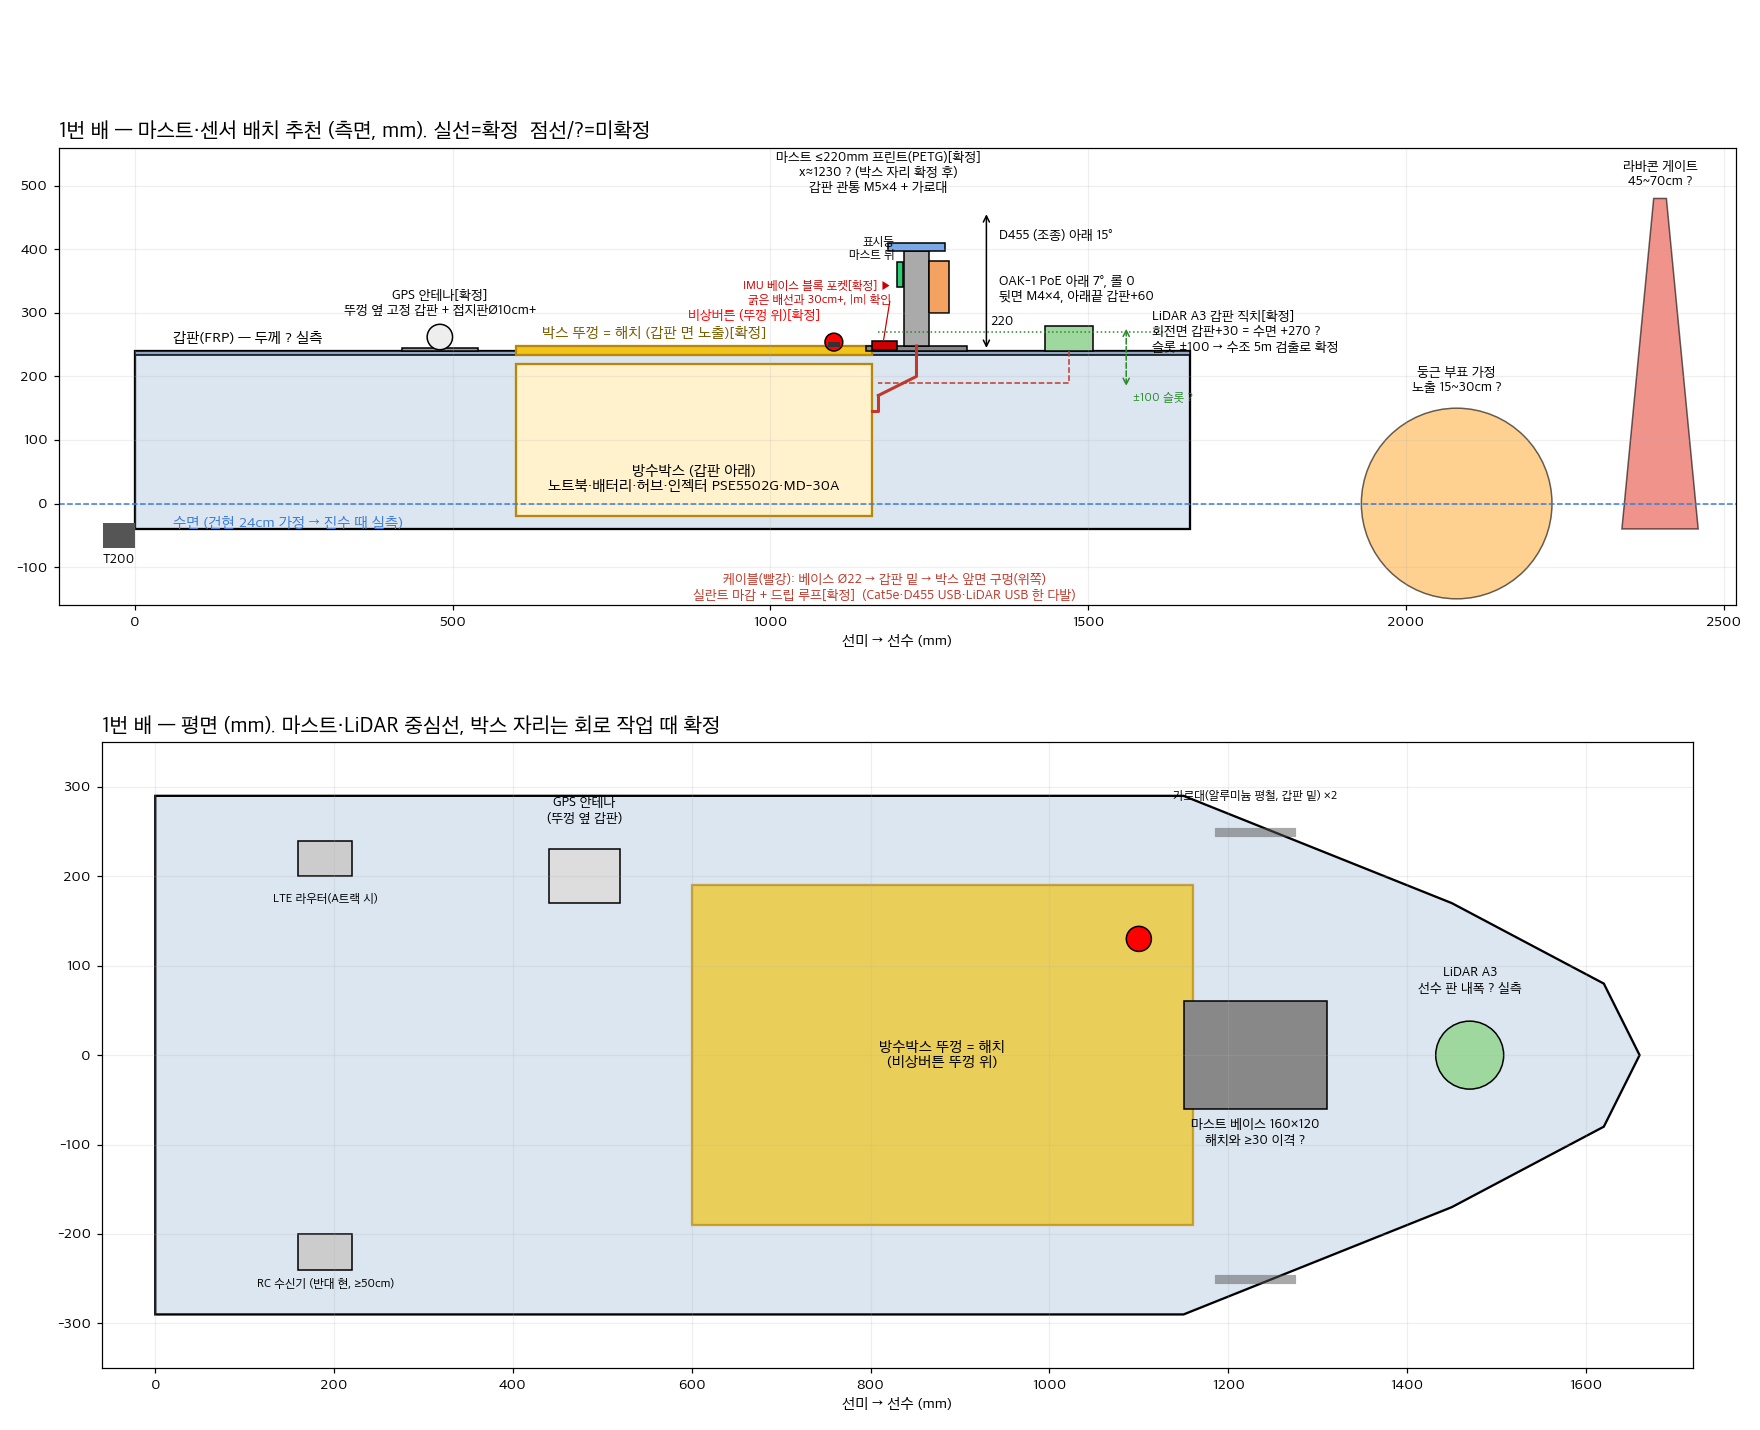
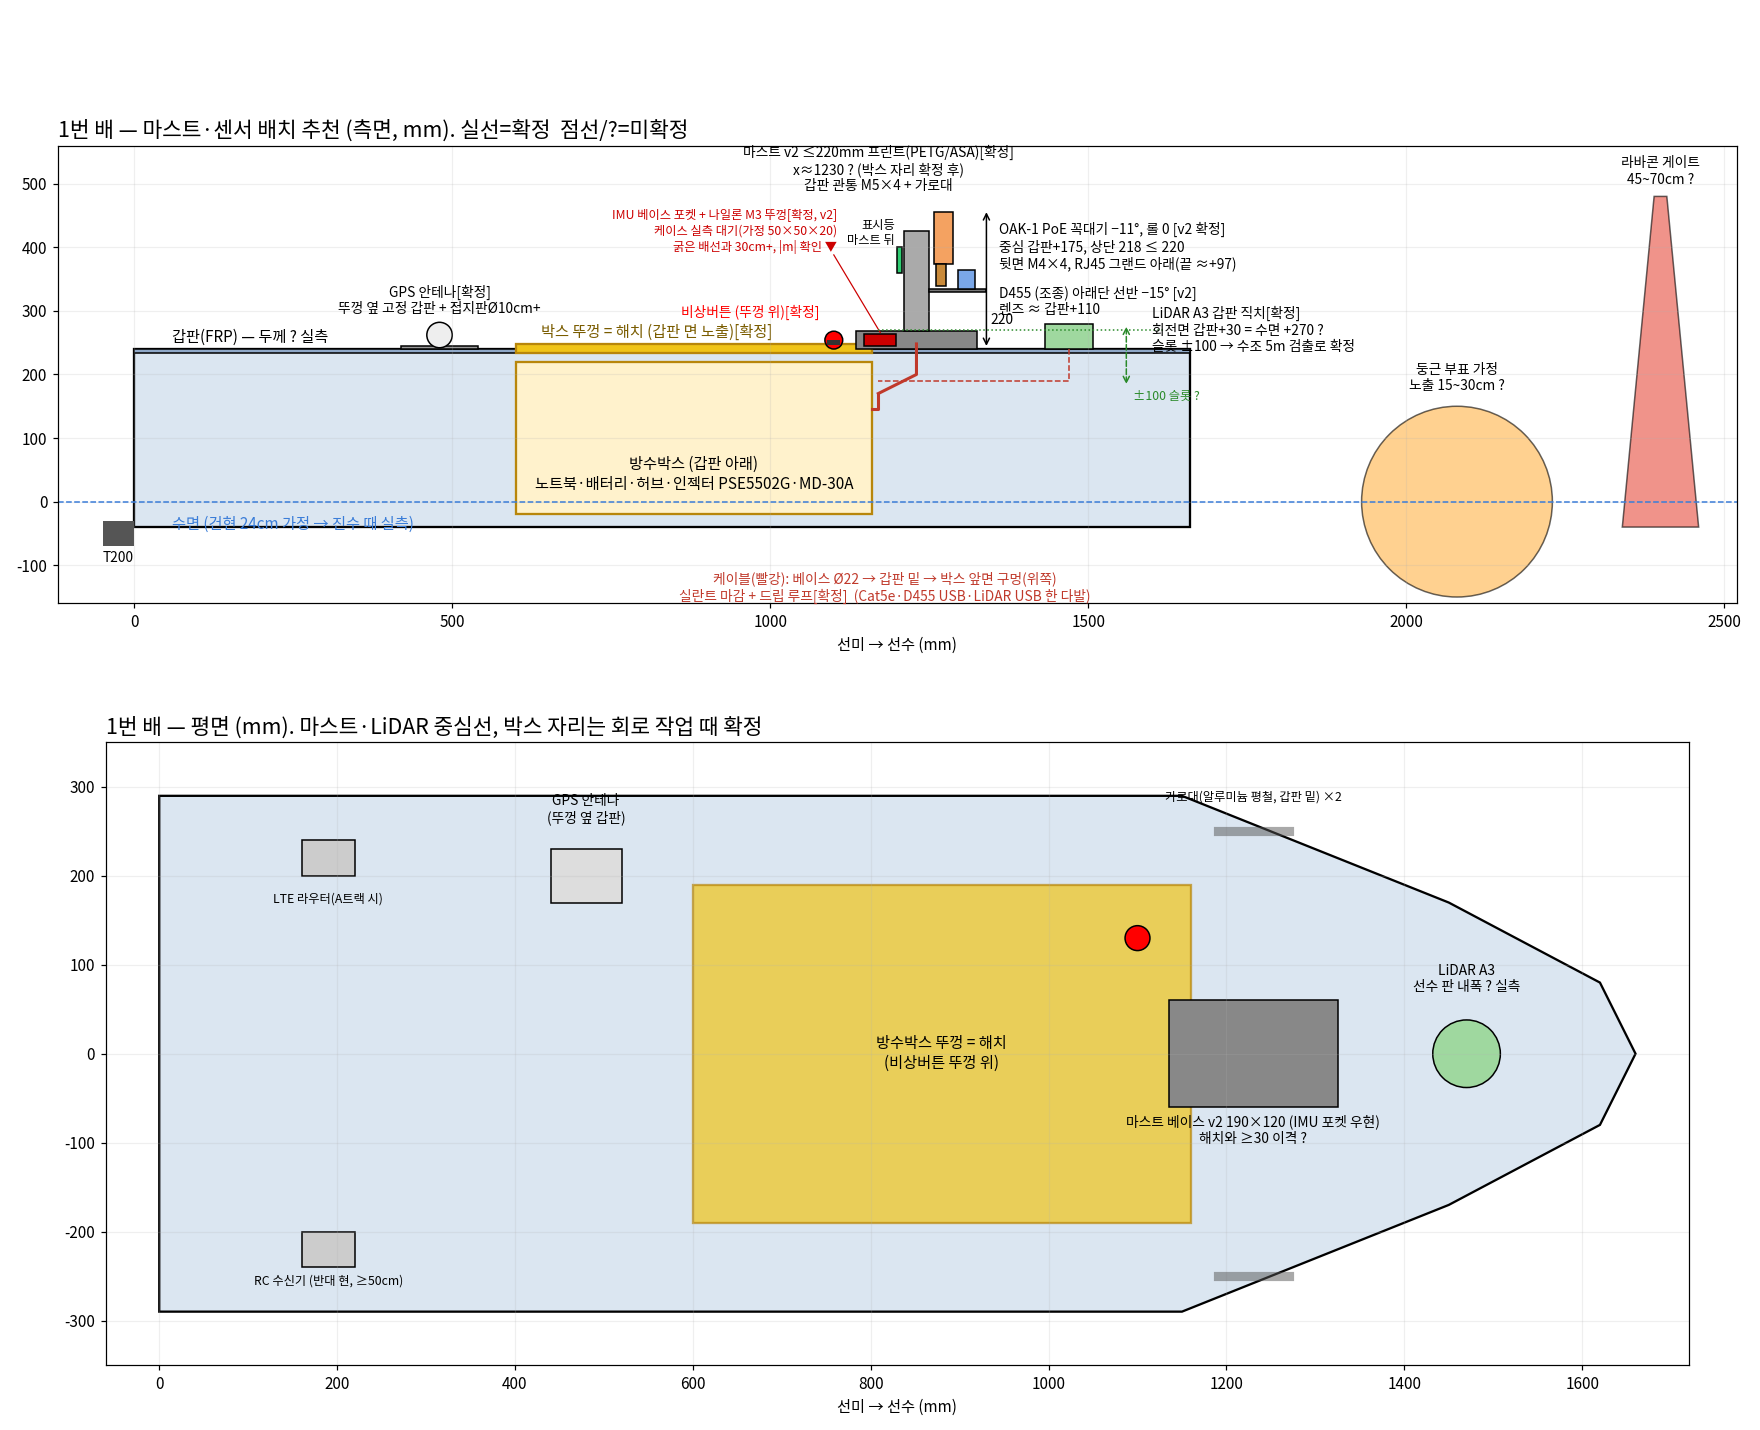
docs: 추천도·수조 계획 v2 동기화
- mast_recommend_plot.py: 카메라 순서 v2(D455 선반 +95 / OAK 중심 +175·그랜드 아래), 베이스 190×120×28·IMU 포켓, 폰트·출력 경로 저장소 상대(맥/우분투 공용)
- tank_test_plan.html 벤치 단계: IMU |m|≈50µT·cm·mount_offset, 부표 유사물 5m LiDAR 검출 → 1번 배 슬롯 높이
- 마스트_요구사항 §3 체크박스 갱신

Claude-Session: https://claude.ai/code/session_01NujQmcxE3oXeUSFtTznus4

diff --git a/docs/절차/tank_test_plan.html b/docs/절차/tank_test_plan.html
@@ -98,6 +98,8 @@ pre{background:#f7f6f1;border:1px solid var(--bd);border-radius:8px;padding:12px
 · 헬스체크: 라이다·IMU·GPS·카메라 다 살아있나 (ros2 launch ... healthcheck / ros2 topic echo /health_ok)
 · 포트 확인: /dev/ttyLiDAR · /dev/IMU · /dev/ttyGPS · /dev/ttyMCU(아두이노 — 아직 미연결이면 생략)
 · IMU 정북: 뱃머리 정북 → /imu/yaw 0 근처. (부호 invert_yaw:false 는 08-07 확정 — mount_offset 만 배 고정 후)
+· IMU 장착 후(마스트 베이스 포켓, v2): /imu 의 자기장 크기 |m| ≈ 50µT 인가 (80µT 대면 굵은 배선·자석 간섭 → 위치 재검토) → cm 자기보정 → mount_offset_deg (뱃머리 정북에서 /imu/yaw = 0)
+· LiDAR 부표 검출(마스트_요구사항 §2-1-a): 부표 유사물(지름 30~40cm 통, 절반 잠기게) 을 5m 앞에 띄우고 /scan 에 찍히는가 → 1번 배 LiDAR 슬롯 높이(±10cm) 결정. 안 찍히면 내린다
 · 모터: ★프로펠러 제거★(물 밖 T200 장시간 금지), 전진 명령 → 양쪽 다 도는가</pre>
 
 <p><span class="step">2</span><b>수조: 조향 부호 (5분)</b></p>

diff --git a/tools/mast_recommend_plot.py b/tools/mast_recommend_plot.py
@@ -2,10 +2,15 @@ import matplotlib
 matplotlib.use("Agg")
 import matplotlib.pyplot as plt
 from matplotlib.patches import Rectangle, Circle, Polygon, FancyArrowPatch
-matplotlib.rcParams["font.family"] = "Apple SD Gothic Neo"
+import os
+from matplotlib import font_manager
+for _f in ("/usr/share/fonts/opentype/noto/NotoSansCJK-Regular.ttc", "/usr/share/fonts/truetype/noto/NotoSansCJK-Regular.ttc"):
+    if os.path.exists(_f):
+        font_manager.fontManager.addfont(_f)
+matplotlib.rcParams["font.family"] = ["Apple SD Gothic Neo", "Noto Sans CJK JP", "Noto Sans CJK KR", "NanumGothic", "DejaVu Sans"]  # 맥 / 우분탄 순서로 있는 것
 matplotlib.rcParams["axes.unicode_minus"] = False
 
-OUT = "/Users/leesongeon/ros2_ws/docs/전달용/배치도/mast_recommend_1beonbae.png"
+OUT = os.path.join(os.path.dirname(os.path.abspath(__file__)), "..", "docs", "전달용", "배치도", "mast_recommend_1beonbae.png")  # 저장소 상대 경로
 
 fig, (ax, ax2) = plt.subplots(2, 1, figsize=(16, 13), gridspec_kw={"height_ratios": [1.15, 1]})
 
@@ -35,16 +40,18 @@ ax.add_patch(Rectangle((GX - 60, DECK), 120, 4, fc="#999", ec="k"))
 ax.add_patch(Circle((GX, DECK + 22), 20, fc="#eee", ec="k")); ax.text(GX, DECK + 56, "GPS 안테나[확정]\n뚜껑 옆 고정 갑판 + 접지판Ø10cm+", ha="center", fontsize=9)
 # 마스트
 MX = 1230
-ax.add_patch(Rectangle((MX - 80, DECK), 160, 8, fc="#888", ec="k"))  # base
-ax.add_patch(Rectangle((MX - 20, DECK + 8), 40, 150, fc="#aaa", ec="k"))  # column
-ax.add_patch(Rectangle((MX - 45, DECK + 158), 90, 12, fc="#7aa7e8", ec="k")); ax.text(MX + 130, DECK + 175, "D455 (조종) 아래 15°", fontsize=9)
-ax.add_patch(Rectangle((MX + 20, DECK + 60), 31, 82, fc="#f4a261", ec="k")); ax.text(MX + 130, DECK + 120, "OAK-1 PoE 아래 7°, 롤 0\n뒷면 M4×4, 아래끝 갑판+60", fontsize=9, va="top")
-ax.text(MX - 60, DECK + 250, "마스트 ≤220mm 프린트(PETG)[확정]\nx≈1230 ? (박스 자리 확정 후)\n갑판 관통 M5×4 + 가로대", ha="center", fontsize=9)
+ax.add_patch(Rectangle((MX - 95, DECK), 190, 28, fc="#888", ec="k"))  # base v2 (IMU 포켓, 두께 IMU 높이 따라 20~28)
+ax.add_patch(Rectangle((MX - 20, DECK + 28), 40, 158, fc="#aaa", ec="k"))  # column → 캡 상단 186
+ax.add_patch(Rectangle((MX + 20, DECK + 89), 90, 6, fc="#777", ec="k"))  # D455 선반 (갑판+95, 관 면에서 40 물림)
+ax.add_patch(Rectangle((MX + 66, DECK + 95), 26, 29, fc="#7aa7e8", ec="k")); ax.text(MX + 130, DECK + 100, "D455 (조종) 아래단 선반 −15° [v2]\n렌즈 ≈ 갑판+110", fontsize=9, va="top")
+ax.add_patch(Rectangle((MX + 27, DECK + 134), 31, 82, fc="#f4a261", ec="k")); ax.text(MX + 130, DECK + 200, "OAK-1 PoE 꼭대기 −11°, 롤 0 [v2 확정]\n중심 갑판+175, 상단 218 ≤ 220\n뒷면 M4×4, RJ45 그랜드 아래(끝 ≈+97)", fontsize=9, va="top")
+ax.add_patch(Rectangle((MX + 30, DECK + 99), 16, 35, fc="#c98a3a", ec="k"))  # RJ45 그랜드
+ax.text(MX - 60, DECK + 250, "마스트 v2 ≤220mm 프린트(PETG/ASA)[확정]\nx≈1230 ? (박스 자리 확정 후)\n갑판 관통 M5×4 + 가로대", ha="center", fontsize=9)
 ax.annotate("", xy=(MX + 110, DECK), xytext=(MX + 110, DECK + 220), arrowprops=dict(arrowstyle="<->", color="k")); ax.text(MX + 116, DECK + 40, "220", fontsize=9)
 # IMU (마스트 베이스 포켓)
-ax.add_patch(Rectangle((MX - 70, DECK + 1), 40, 14, fc="#c00", ec="k")); ax.text(MX - 40, DECK + 92, "IMU 베이스 블록 포켓[확정] ▶\n굵은 배선과 30cm+, |m| 확인", ha="right", va="center", fontsize=8, color="#c00"); ax.plot([MX - 42, MX - 52], [DECK + 78, DECK + 16], color="#c00", lw=0.8)
+ax.add_patch(Rectangle((MX - 82, DECK + 4), 50, 20, fc="#c00", ec="k")); ax.text(MX - 125, DECK + 150, "IMU 베이스 포켓 + 나일론 M3 뚜껑[확정, v2]\n케이스 실측 대기(가정 50×50×20)\n굵은 배선과 30cm+, |m| 확인 ▼", ha="right", va="bottom", fontsize=8, color="#c00"); ax.plot([MX - 130, MX - 57], [DECK + 148, DECK + 26], color="#c00", lw=0.8)
 # 표시등
-ax.add_patch(Rectangle((MX - 30, DECK + 100), 8, 40, fc="#2ecc71", ec="k")); ax.text(MX - 34, DECK + 145, "표시등\n마스트 뒤", ha="right", fontsize=8)
+ax.add_patch(Rectangle((MX - 30, DECK + 120), 8, 40, fc="#2ecc71", ec="k")); ax.text(MX - 34, DECK + 165, "표시등\n마스트 뒤", ha="right", fontsize=8)
 # LiDAR
 LX = 1470
 ax.add_patch(Rectangle((LX - 38, DECK), 76, 40, fc="#9fd89f", ec="k"))
@@ -70,7 +77,7 @@ ax2.add_patch(hull)
 ax2.add_patch(Rectangle((BX0, -190), BX1 - BX0, 380, fc="#f0c419", ec="#b8860b", lw=1.5, alpha=0.7)); ax2.text((BX0 + BX1) / 2, 0, "방수박스 뚜껑 = 해치\n(비상버튼 뚜껑 위)", ha="center", va="center", fontsize=10)
 ax2.add_patch(Circle((1100, 130), 14, fc="red", ec="k"))
 ax2.add_patch(Rectangle((GX - 40, W/2 - 120), 80, 60, fc="#ddd", ec="k")); ax2.text(GX, W/2 - 30, "GPS 안테나\n(뚜껑 옆 갑판)", ha="center", fontsize=9)
-ax2.add_patch(Rectangle((MX - 80, -60), 160, 120, fc="#888", ec="k")); ax2.text(MX, -100, "마스트 베이스 160×120\n해치와 ≥30 이격 ?", ha="center", fontsize=9)
+ax2.add_patch(Rectangle((MX - 95, -60), 190, 120, fc="#888", ec="k")); ax2.text(MX, -100, "마스트 베이스 v2 190×120 (IMU 포켓 우현)\n해치와 ≥30 이격 ?", ha="center", fontsize=9)
 for yy in (-W/2 + 40, W/2 - 40): ax2.plot([MX - 40, MX + 40], [yy, yy], color="#555", lw=6, alpha=0.5)
 ax2.text(MX, W/2 - 5, "가로대(알루미늄 평철, 갑판 밑) ×2", ha="center", fontsize=8)
 ax2.add_patch(Circle((LX, 0), 38, fc="#9fd89f", ec="k")); ax2.text(LX, 70, "LiDAR A3\n선수 판 내폭 ? 실측", ha="center", fontsize=9)

diff --git a/docs/전달용/마스트_요구사항.md b/docs/전달용/마스트_요구사항.md
@@ -85,10 +85,10 @@
 - 2번 배(뱃머리 거리 ≈54cm)는 물 띠 22°/46% — 같은 결론.
 
 ## 3. 할 일
-- [ ] cam-stream 머지 후 `하드웨어_배치_요구사항.md` §0-2 충돌표를 "해소 — 마스트_요구사항 개정판 참조" 로 바꾸고 §2-1~2-4 를 §6 실측 목록·§4 재질에 반영
-- [ ] `과제_목록_전체.md` A10 → ✅
+- [x] `하드웨어_배치_요구사항.md` §0-2 충돌표를 "해소 — 마스트_요구사항 개정판 참조" 로 바꾸고 §2-1~2-4 를 §6 실측 목록·§4 재질에 반영 (cam-stream 09-16)
+- [x] `과제_목록_전체.md` A10 → ✅ (B10 IMU 실측·B11 LiDAR 슬롯·B12 벌크헤드 추가)
 - [ ] 운영측 문의 1건으로 묶기: 부표 높이·지름 + 대회장 파고 (답 오기 전엔 §2-1-a 가정으로 진행)
-- [x] 카메라 순서 교체 → cam-stream `tools/cad/mast.py` v2 반영(3b0ab01)
+- [x] 카메라 순서 교체 → cam-stream `tools/cad/mast.py` v2 반영 (간섭 검사 0, OAK 상단 218)
 - [x] `mast.py` 베이스 IMU 포켓 + 뚜껑 (v2). ⬜ iAHRS 실측 치수 대기(내일) → `IMU_L/W/H`
-- [ ] `tools/cad` 1번 배 LiDAR 마운트에 **높이 조절 슬롯 ±10cm** (저위치 브래킷은 수조 결과 뒤)
-- [ ] 수조 테스트 항목 추가: 부표 유사물 5m 에서 LiDAR 검출 (tank_test_plan.html)
+- [ ] `tools/cad` 1번 배 LiDAR 마운트에 **높이 조절 슬롯 ±10cm** (저위치 브래킷은 수조 결과 뒤) — 과제 B11
+- [x] 수조 테스트 항목 추가: 부표 유사물 5m 에서 LiDAR 검출 + IMU |m|·cm·mount_offset (tank_test_plan.html 벤치 단계)
